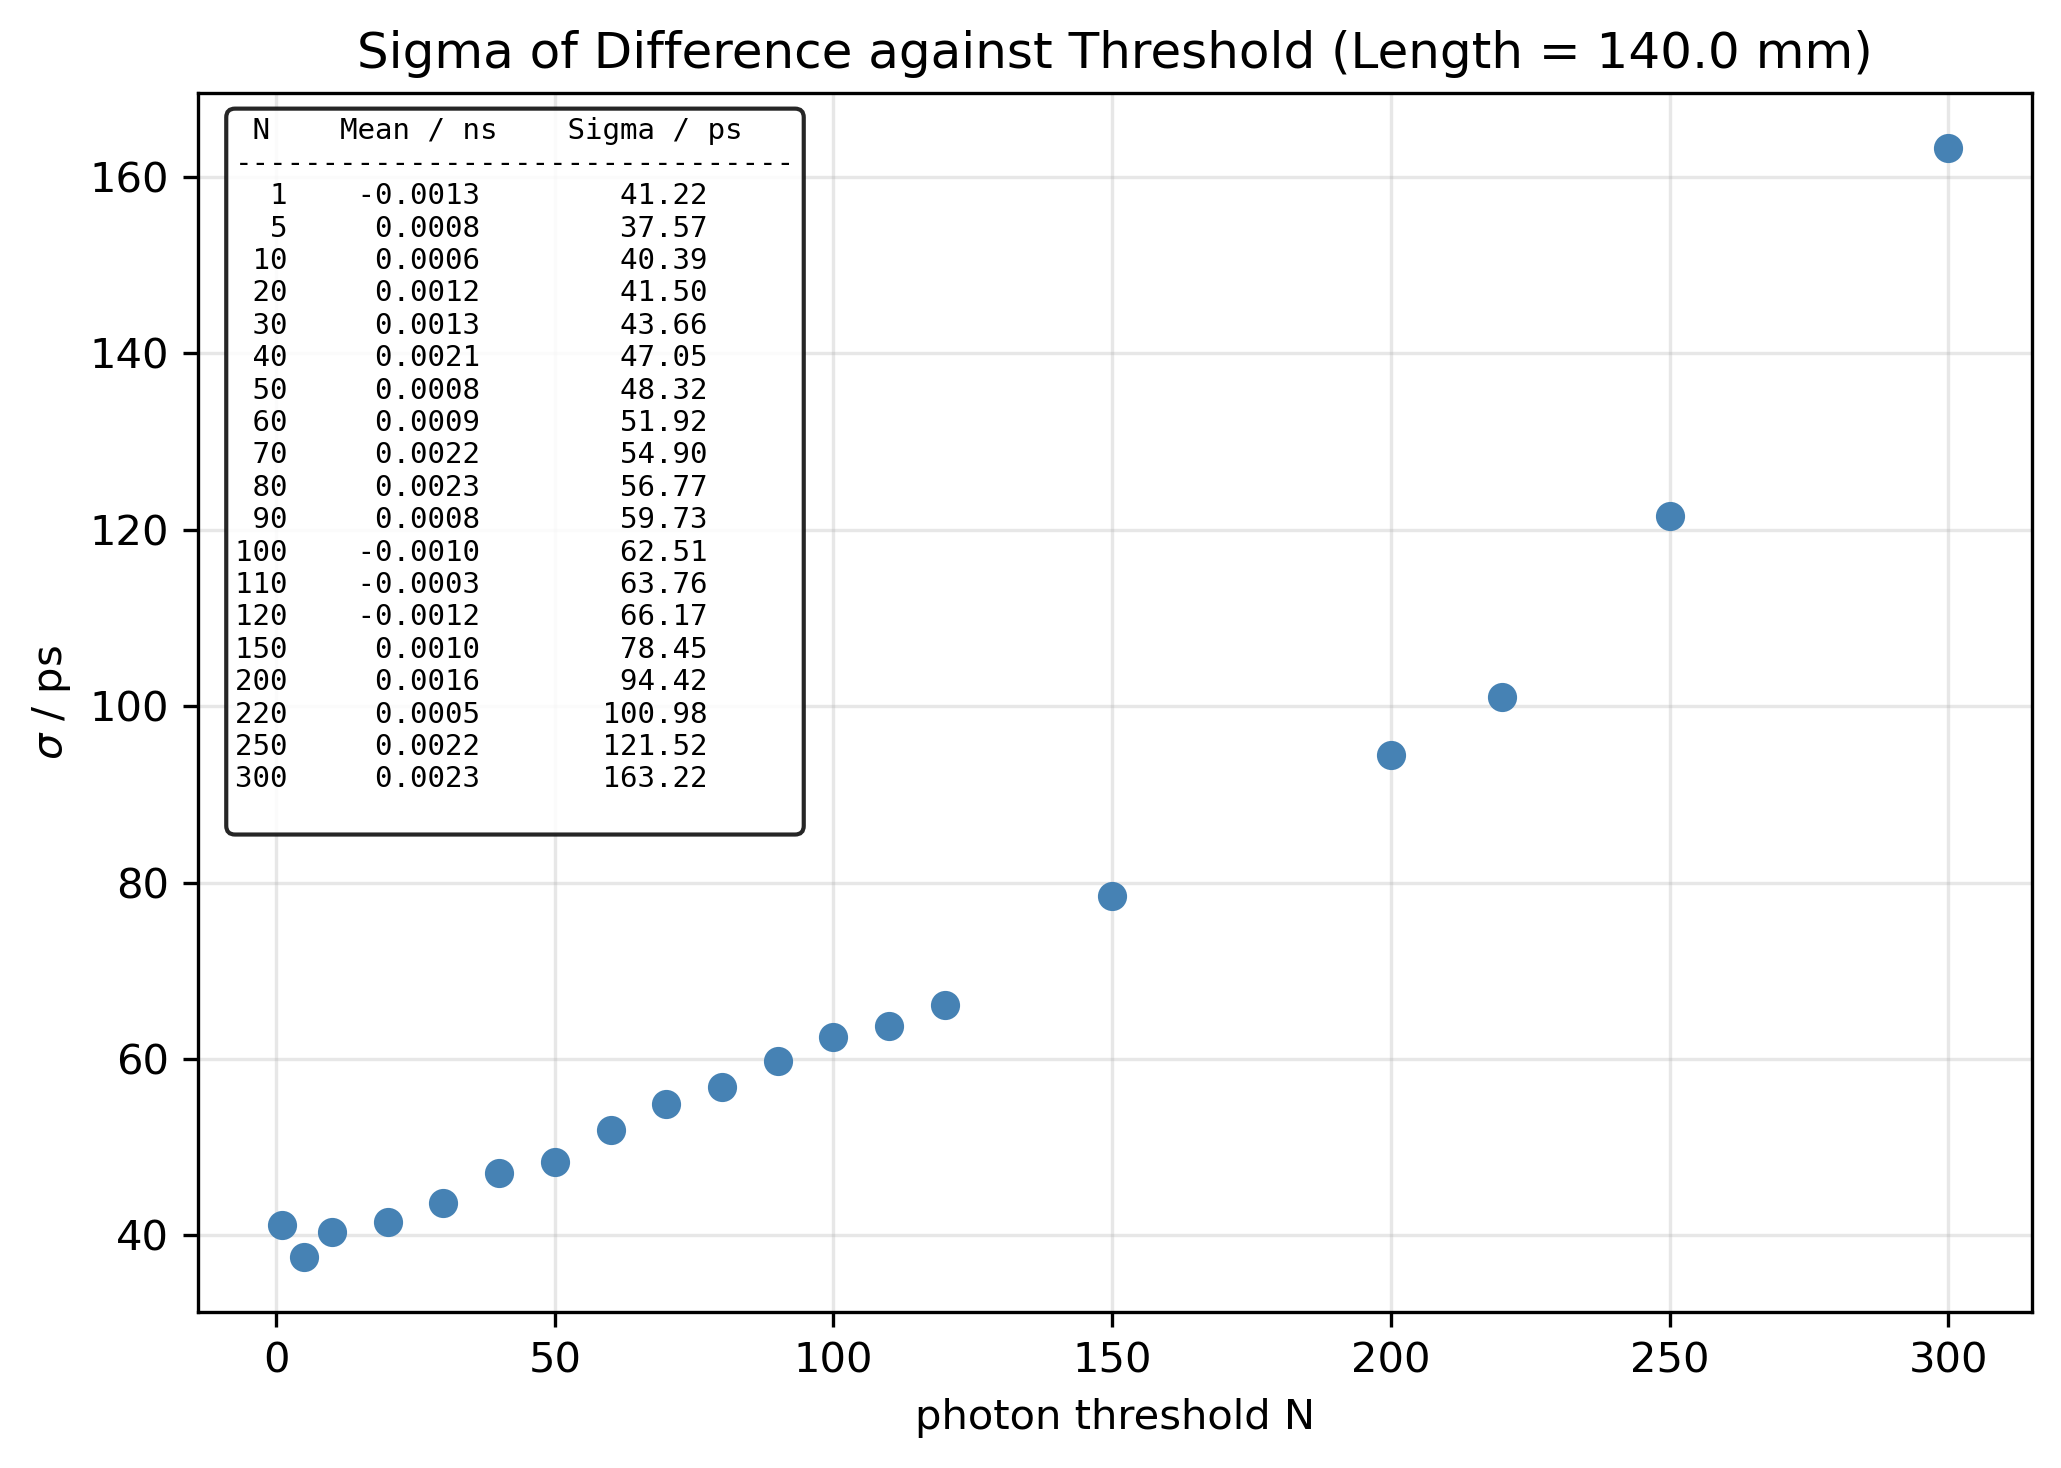
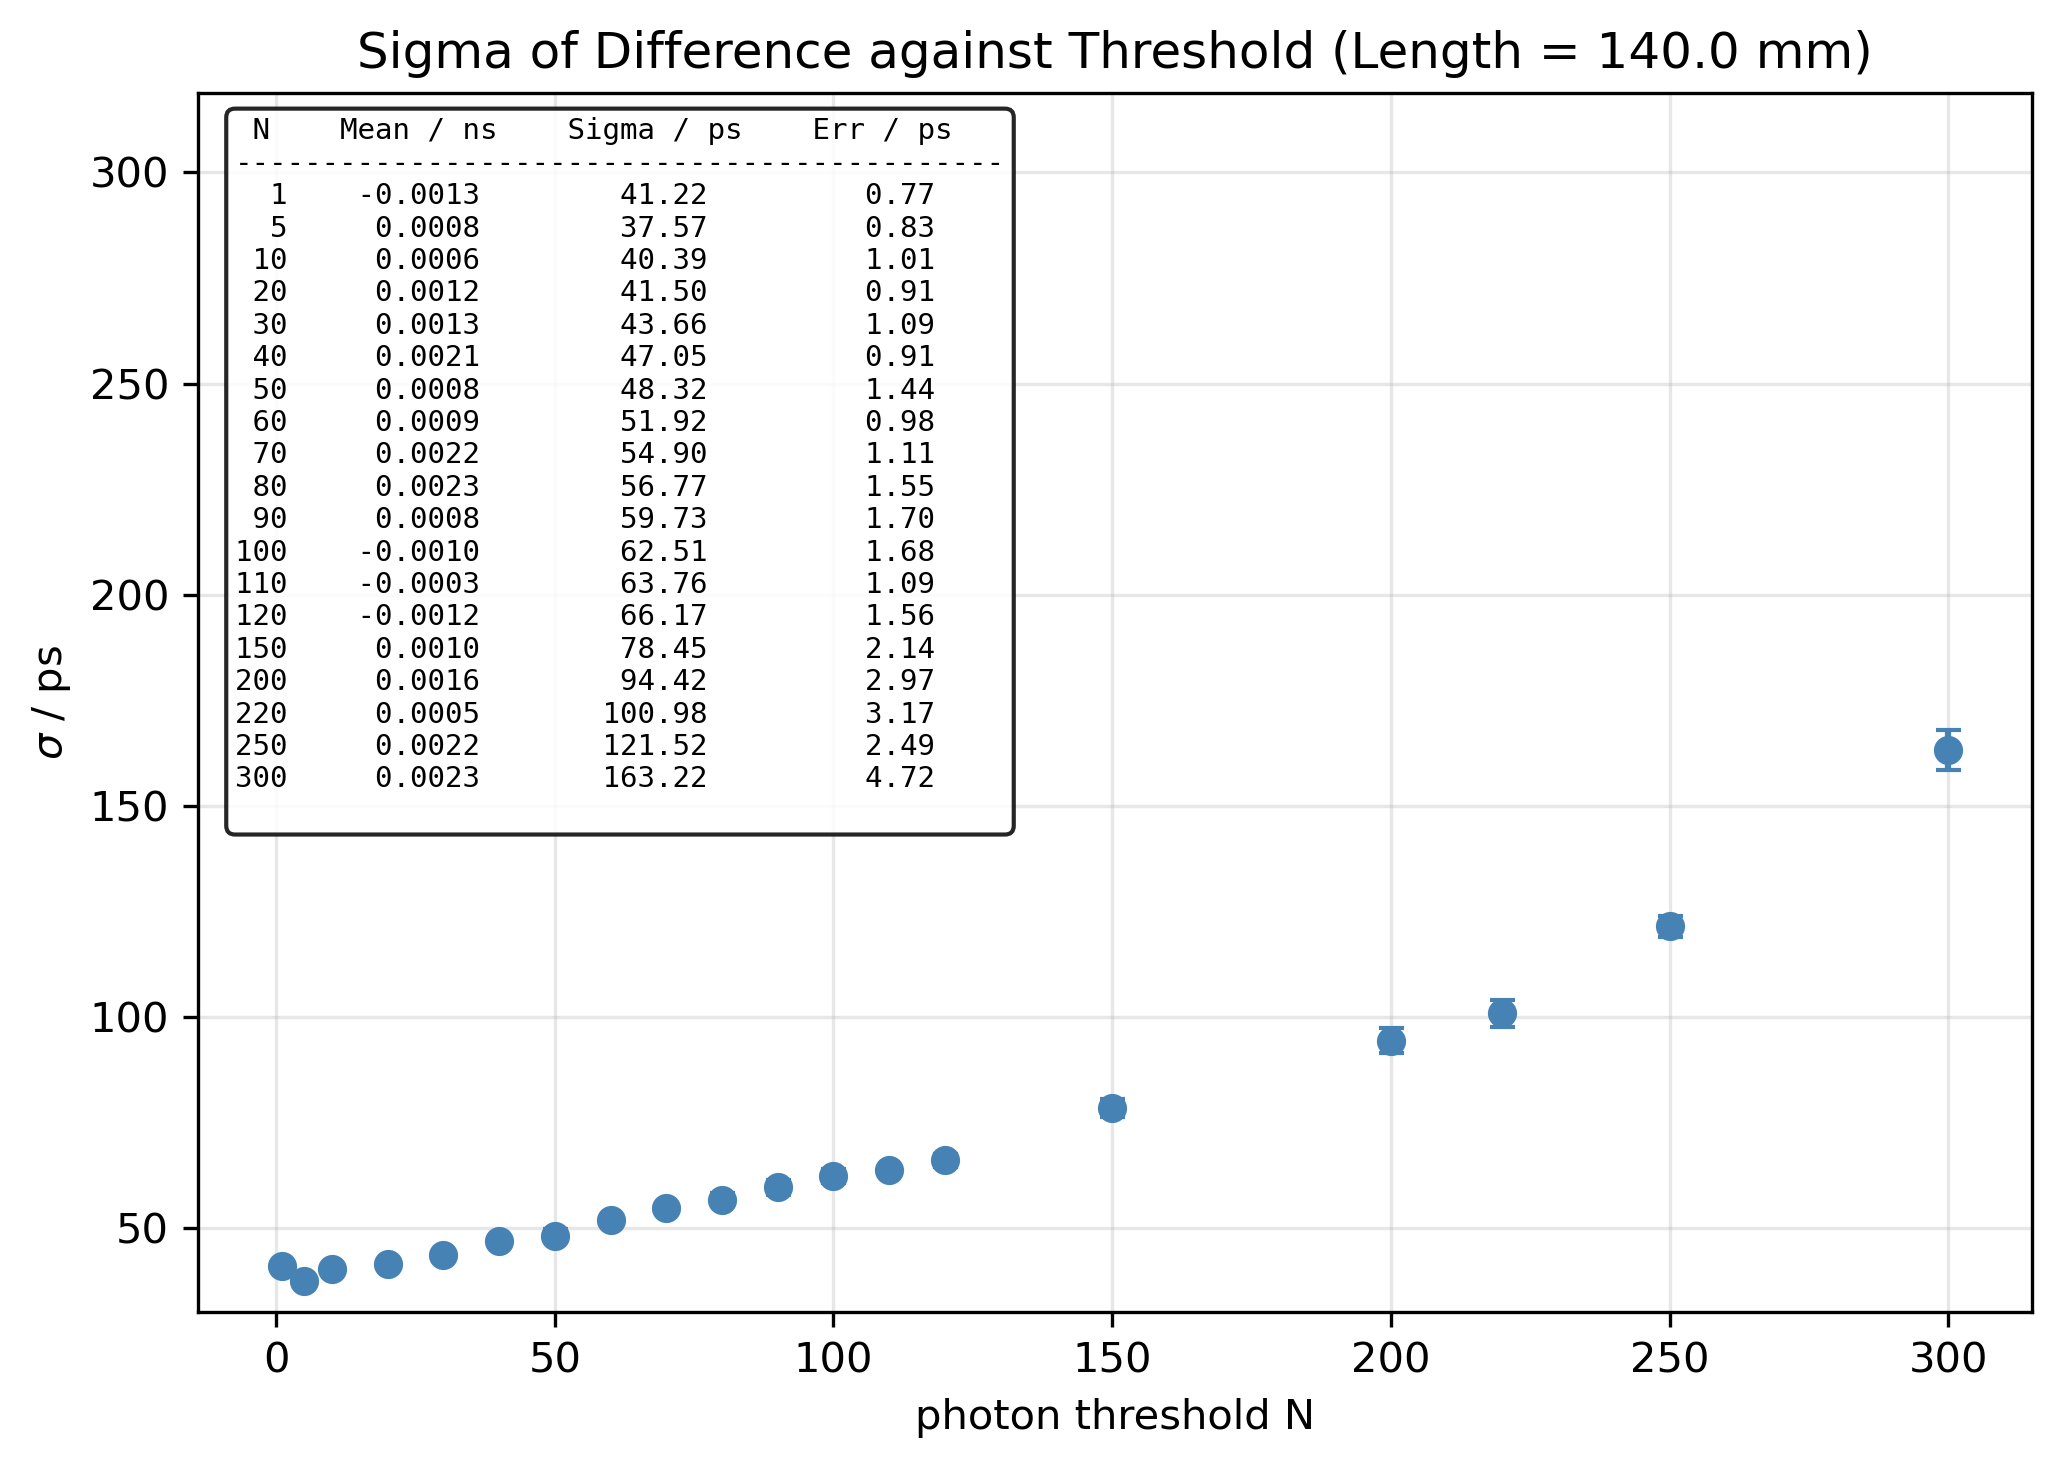
new

diff --git a/threshold/run.py b/threshold/run.py
@@ -8,7 +8,9 @@ from scipy.optimize import curve_fit
 from scipy.stats import norm
 from scipy.stats import moyal
 
-PLOTS_DIR = Path("plots")
+SCRIPT_DIR = Path(__file__).resolve().parent
+
+PLOTS_DIR = SCRIPT_DIR / "plots"
 PLOTS_DIR.mkdir(exist_ok=True)
 
 def save_plot(filename=None):
@@ -32,8 +34,29 @@ files = ["4mm.csv", "14mm.csv", "100mm.csv", "70mm.csv", "140mm.csv", "180mm.csv
 
 all_valid_fits = {}
 
-for file in files:
-    CSV_PATH = f"../{file}"
+# Je ein Bild für alle Längen, ein Teilplot pro Länge (nach Länge sortiert)
+files = sorted(files, key=lambda name: float(name.removesuffix("mm.csv")))
+
+scatter_specs = [
+    ("TrackLenght", "track length / mm", "tracklength"),
+    ("NSideReflections", "number of side reflections", "side_reflections"),
+]
+scatter_n_cols = 3
+scatter_n_rows = int(np.ceil(len(files) / scatter_n_cols))
+scatter_figures = {}
+
+for column, _, _ in scatter_specs:
+    scatter_fig, scatter_axes = plt.subplots(
+        scatter_n_rows, scatter_n_cols,
+        figsize=(5 * scatter_n_cols, 4 * scatter_n_rows),
+        sharex=True,
+        sharey=True,
+        squeeze=False,
+    )
+    scatter_figures[column] = (scatter_fig, scatter_axes.ravel())
+
+for file_index, file in enumerate(files):
+    CSV_PATH = SCRIPT_DIR.parent / file
 
     print(f"Loading CSV file: {CSV_PATH}")
 
@@ -335,20 +358,21 @@ for file in files:
     scintillator_length = data.loc[
         data["EventID"] == first_event_id, "ScintillatorLenght"
     ].iloc[0]
-    all_valid_fits[scintillator_length] = valid_fits
+    all_valid_fits[float(scintillator_length)] = valid_fits
     ax_sigma.set_title(f"Sigma of Difference against Threshold (Length = {scintillator_length} mm)")
     ax_sigma.set_xlabel("photon threshold N")
     ax_sigma.set_ylabel("$\sigma$ / ps")
     ax_sigma.grid(alpha=0.3)
 
-    stats_text = " N    Mean / ns    Sigma / ps\n"
-    stats_text += "-" * 32 + "\n"
+    stats_text = " N    Mean / ns    Sigma / ps    Err / ps\n"
+    stats_text += "-" * 44 + "\n"
 
     for _, row in valid_fits.iterrows():
         stats_text += (
             f"{int(row['Threshold']):3d}   "
             f"{row['Mean_ns']:8.4f}     "
-            f"{row['Sigma_ps']:8.2f}\n"
+            f"{row['Sigma_ps']:8.2f}     "
+            f"{row['SigmaErr_ps']:8.2f}\n"
         )
 
     ax_sigma.text(
@@ -366,36 +390,82 @@ for file in files:
         )
     )
 
+    # Platz oben für die Tabelle: Daten belegen nur die untere Hälfte
+    y_low, y_high = ax_sigma.get_ylim()
+    ax_sigma.set_ylim(y_low, y_low + (y_high - y_low) / 0.5)
+
     fig.tight_layout()
     save_plot(f"threshold_difference_gauss_sigma_{scintillator_length}mm")
     # plt.show()
 
     print(f"Finished plotting threshold difference Gaussian sigma: {scintillator_length} mm")
 
+    for column, x_label, _ in scatter_specs:
+        ax = scatter_figures[column][1][file_index]
+        ax.scatter(data[column], data["TimeSinceZero"], s=2, alpha=0.1)
+        ax.set_title(f"Length = {scintillator_length:g} mm")
+        ax.set_xlabel(x_label)
+        ax.set_ylabel("time since zero / ns")
+        ax.tick_params(labelbottom=True, labelleft=True)
+        ax.grid(alpha=0.3)
+
     difference_fits.round(4).to_string(index=False)
 
+for column, x_label, name in scatter_specs:
+    scatter_fig, scatter_axes = scatter_figures[column]
+
+    for unused_ax in scatter_axes[len(files):]:
+        unused_ax.set_visible(False)
+
+    scatter_fig.suptitle(f"Arrival time vs {x_label.split(' /')[0]}")
+    scatter_fig.tight_layout()
+    plt.figure(scatter_fig.number)
+    save_plot(f"time_vs_{name}_all_lengths")
+    plt.close(scatter_fig)
+
+# Feste Farbe und Marker pro Länge, damit sie in beiden Plots gleich sind
+length_styles = {
+    length: (plt.cm.tab10(i), "osv^Dp"[i % 6])
+    for i, length in enumerate(sorted(all_valid_fits))
+}
+
+def plot_lengths(lengths, title, filename):
+    fig, ax = plt.subplots(figsize=(9, 6))
+
+    for length in lengths:
+        color, marker = length_styles[length]
+        fits = all_valid_fits[length]
+        ax.errorbar(
+            fits["Threshold"],
+            fits["Sigma_ps"],
+            yerr=fits["SigmaErr_ps"],
+            fmt=marker,
+            color=color,
+            capsize=3,
+            label=f"{length:g} mm",
+        )
+
+    ax.set_title(title)
+    ax.set_xlabel("photon threshold N")
+    ax.set_ylabel(r"$\sigma$ / ps")
+    ax.grid(alpha=0.3)
+    ax.legend(title="Scintillator length")
+
+    fig.tight_layout()
+    save_plot(filename)
+    # plt.show()
+
 # Alle Längen in einem Plot
-fig, ax_all = plt.subplots(figsize=(9, 6))
+plot_lengths(
+    sorted(all_valid_fits),
+    "Sigma of Difference against Threshold (all lengths)",
+    "threshold_difference_gauss_sigma_all_lengths",
+)
 
-colors = plt.cm.viridis(np.linspace(0, 1, len(all_valid_fits)))
-
-for color, (length, fits) in zip(colors, sorted(all_valid_fits.items())):
-    ax_all.errorbar(
-        fits["Threshold"],
-        fits["Sigma_ps"],
-        yerr=fits["SigmaErr_ps"],
-        fmt="o",
-        color=color,
-        capsize=3,
-        label=f"{length} mm",
-    )
-
-ax_all.set_title("Sigma of Difference against Threshold (all lengths)")
-ax_all.set_xlabel("photon threshold N")
-ax_all.set_ylabel(r"$\sigma$ / ps")
-ax_all.grid(alpha=0.3)
-ax_all.legend(title="Scintillator length")
-
-fig.tight_layout()
-save_plot("threshold_difference_gauss_sigma_all_lengths")
-# plt.show()
+# Auswahl an Längen
+selected_lengths = [14.0, 70.0, 140.0, 180.0]
+plot_lengths(
+    [length for length in selected_lengths if length in all_valid_fits],
+    "Sigma of Difference against Threshold (selected lengths)",
+    "threshold_difference_gauss_sigma_selected_lengths",
+)
